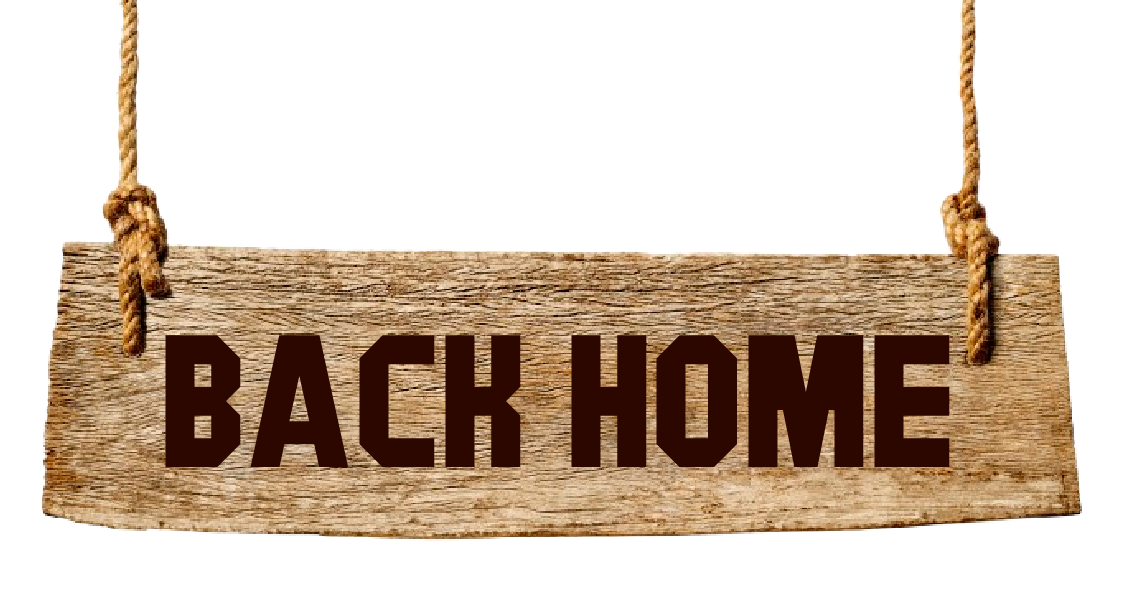
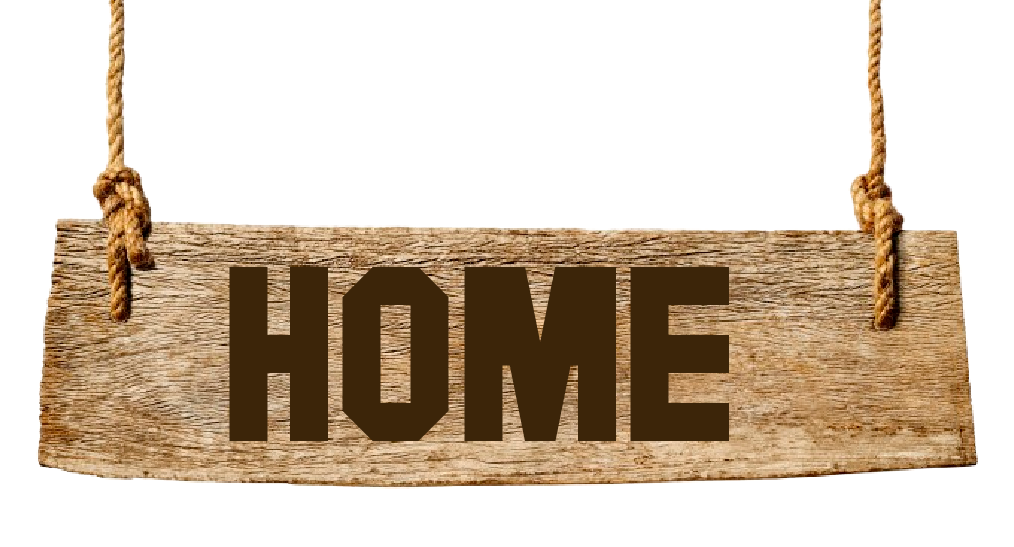
fleches

diff --git a/affiche.css b/affiche.css
@@ -115,7 +115,7 @@ body {
     position: fixed;      /* Toujours visible en haut à gauche même en scroll */
     top: 20px;            /* Distance depuis le haut */
     left: 40px;           /* Distance depuis la gauche */
-    width: 90px;          /* Taille de base */
+    width: 140px;          /* Taille de base */
     height: auto;         /* Conserve les proportions */
     cursor: pointer;      /* Curseur cliquable */
     transition: transform 0.2s ease;

diff --git a/fermedesloups.css b/fermedesloups.css
@@ -203,7 +203,7 @@ body {
     position: fixed;      /* Toujours visible en haut à gauche même en scroll */
     top: 20px;            /* Distance depuis le haut */
     left: 40px;           /* Distance depuis la gauche */
-    width: 90px;          /* Taille de base */
+    width: 120px;          /* Taille de base */
     height: auto;         /* Conserve les proportions */
     cursor: pointer;      /* Curseur cliquable */
     transition: transform 0.2s ease;

diff --git a/logo.css b/logo.css
@@ -77,7 +77,7 @@ body {
     position: fixed;      /* Toujours visible en haut à gauche même en scroll */
     top: 20px;            /* Distance depuis le haut */
     left: 40px;           /* Distance depuis la gauche */
-    width: 90px;          /* Taille de base */
+    width: 140px;          /* Taille de base */
     height: auto;         /* Conserve les proportions */
     cursor: pointer;      /* Curseur cliquable */
     transition: transform 0.2s ease;

diff --git a/logo.html b/logo.html
@@ -29,7 +29,7 @@
         <img src="images/pds.jpeg" class="ticket-icon" alt="Icon">
       </div>
       <a href="#" id="backButton">
-          <img src="images/flecheretour.png" class="flecheretour" alt="Retour accueil">
+          <img src="images/flechelogo.png" class="flecheretour" alt="Retour accueil">
       </a>
 
       <script>

diff --git a/affiche.html b/affiche.html
@@ -29,7 +29,7 @@
   <img src="images/pds.jpeg" class="ticket-icon" alt="Icon">
 </div>
 <a href="#" id="backButton">
-    <img src="images/flecheretour.png" class="flecheretour" alt="Retour accueil">
+    <img src="images/flechenature.png" class="flecheretour" alt="Retour accueil">
 </a>
 
 <script>

diff --git a/fermedesloups.html b/fermedesloups.html
@@ -55,7 +55,7 @@
     </div>
 
     <a href="#" id="backButton">
-        <img src="images/flecheretour.png" class="flecheretour" alt="Retour accueil">
+        <img src="images/flecheferme.png" class="flecheretour" alt="Retour accueil">
     </a>
 
     <script>
